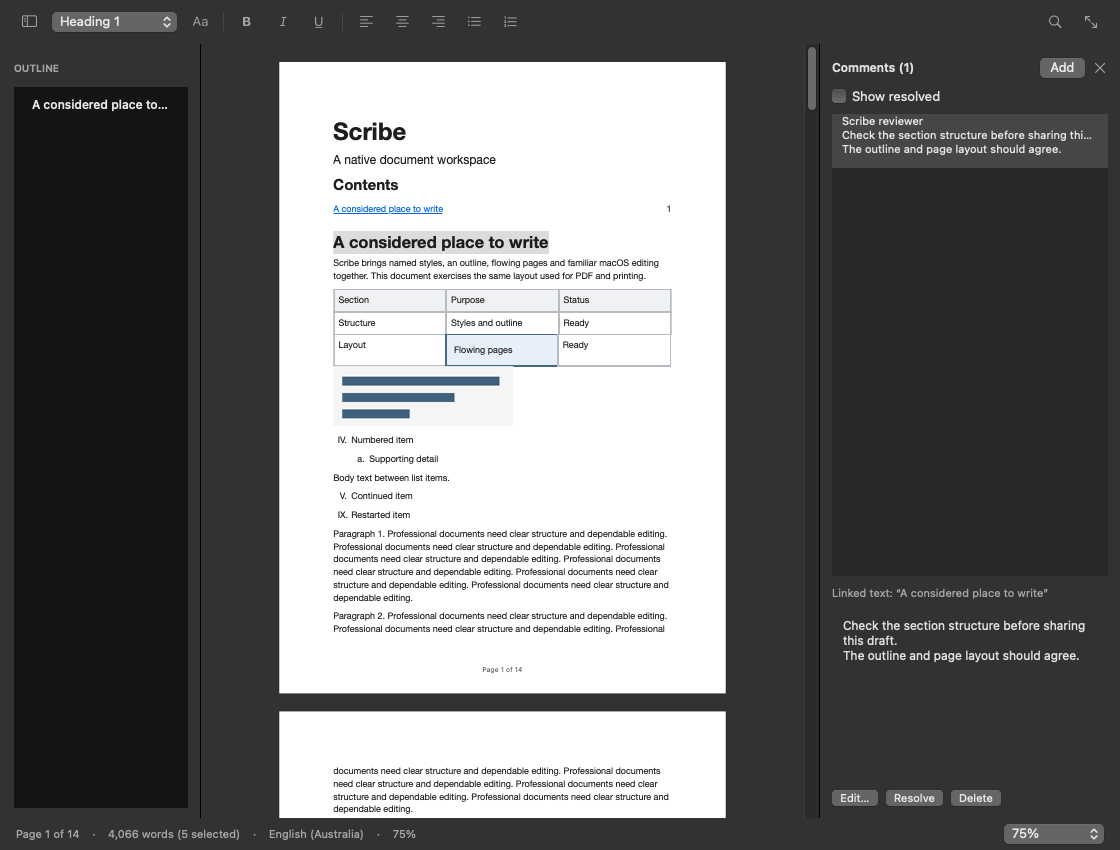
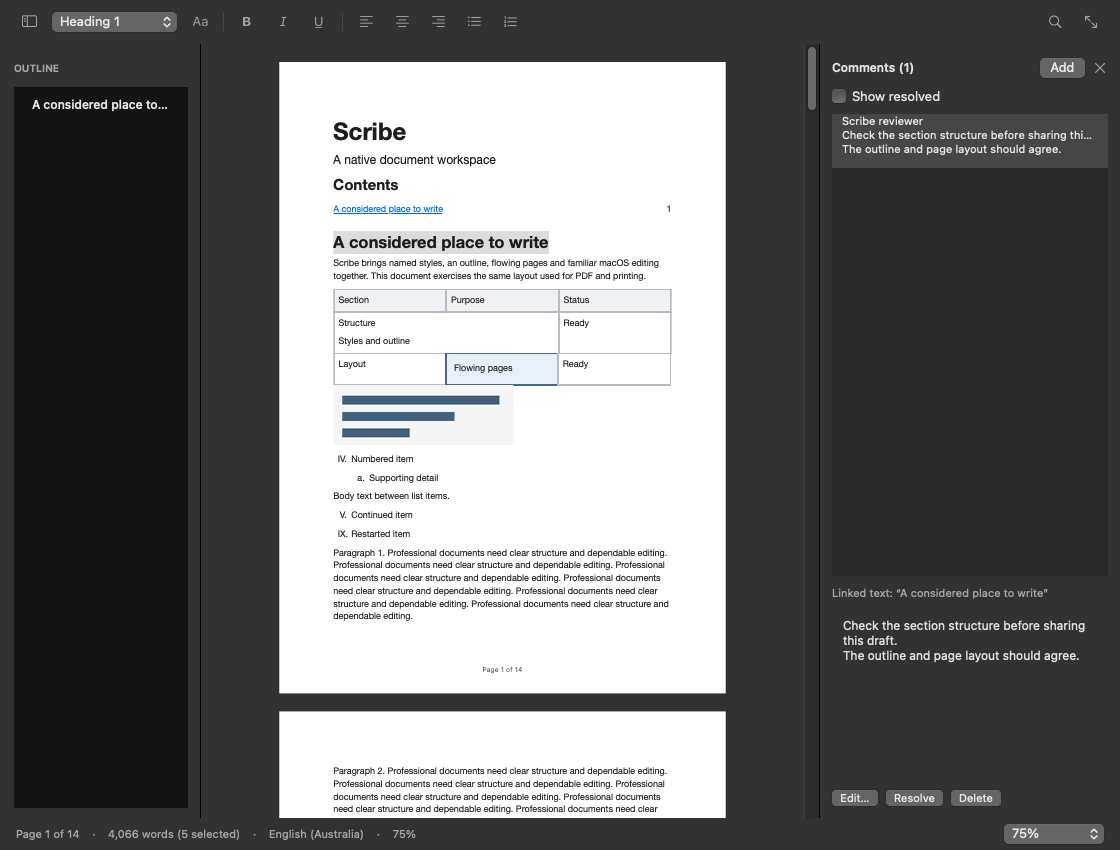
Add document properties and per-document native spelling languages

Changed region(s): [[0.2812, 0.3671, 0.5938, 0.7647], [0.2812, 0.8871, 0.5938, 0.9788]]

diff --git a/Sources/ImportExport/DOCX.swift b/Sources/ImportExport/DOCX.swift
@@ -19,6 +19,18 @@ public enum DOCX {
         let files = try ZipArchive.decode(data)
         guard let content = files["word/document.xml"] else { throw DocumentError.invalid("DOCX has no main document part") }
         let delegate = WordReader(); delegate.files = files
+        delegate.document.language = "und"
+        var metadataPath = "docProps/core.xml"
+        if let rootRelationships = files["_rels/.rels"] {
+            let reader = RelationshipReader(); try parse(rootRelationships, delegate: reader)
+            metadataPath = reader.partTargets[DOCXMetadata.relationship] ?? metadataPath
+        }
+        if let metadata = files[metadataPath] {
+            let reader = DOCXMetadataReader(); try parse(metadata, delegate: reader)
+            if let title = reader.title, !title.isEmpty { delegate.document.title = title }
+            if let author = reader.author { delegate.document.author = author }
+            if let language = reader.language, let normalized = try? DocumentMetadata.languageIdentifier(language) { delegate.document.language = normalized }
+        }
         var partTargets: [String: String] = [:]
         if let rels = files["word/_rels/document.xml.rels"] {
             let reader = RelationshipReader(); try parse(rels, delegate: reader); delegate.links = reader.links; delegate.targets = reader.targets; partTargets = reader.partTargets
@@ -28,6 +40,10 @@ public enum DOCX {
             let reader = StyleReader(); try parse(styles, delegate: reader)
             for style in reader.styles { delegate.document.updateStyle(style) }
             delegate.styleLists = reader.resolvedLists
+            if let language = reader.defaultLanguage, let normalized = try? DocumentMetadata.languageIdentifier(language) { delegate.document.language = normalized }
+            if reader.styleLanguages.contains(where: { (try? DocumentMetadata.languageIdentifier($0)) != delegate.document.language }) {
+                delegate.warnings.insert("Style-specific spelling languages are flattened to the document language.")
+            }
         }
         if let numbering = part("numbering") { try parse(numbering, delegate: delegate.numbering) }
         try parse(content, delegate: delegate)
@@ -194,11 +210,17 @@ private class StyleReader: NSObject, XMLParserDelegate {
         return result
     }
     var styles: [ParagraphStyle] = []; var current: ParagraphStyle?
+    var defaultLanguage: String?
+    var styleLanguages = Set<String>()
+    private var inDefaults = false
     func parser(_ parser: XMLParser, didStartElement name: String, namespaceURI: String?, qualifiedName: String?, attributes a: [String: String]) {
+        if name == "docDefaults" { inDefaults = true }
+        if inDefaults, name == "lang" { defaultLanguage = wordAttribute(a) }
         if name == "style", wordAttribute(a, "type") == "paragraph", let id = wordAttribute(a, "styleId") {
             current = ParagraphStyle(id: id, name: id)
         }
         guard current != nil else { return }
+        if name == "lang", let language = wordAttribute(a) { styleLanguages.insert(language) }
         if name == "basedOn" { parents[current!.id] = wordAttribute(a) }
         if name == "numId" { var list = lists[current!.id] ?? StyleList(); list.id = wordAttribute(a); lists[current!.id] = list }
         if name == "ilvl" { var list = lists[current!.id] ?? StyleList(); list.level = wordAttribute(a).flatMap(Int.init); lists[current!.id] = list }
@@ -208,6 +230,7 @@ private class StyleReader: NSObject, XMLParserDelegate {
         applyParagraph(name, a, &current!.paragraph)
     }
     func parser(_ parser: XMLParser, didEndElement name: String, namespaceURI: String?, qualifiedName: String?) {
+        if name == "docDefaults" { inDefaults = false }
         if name == "style", let style = current { styles.append(style); current = nil }
     }
 }
@@ -244,6 +267,10 @@ private class WordReader: NSObject, XMLParserDelegate {
             if let t = tableIndex, row >= 0, column >= 0 { paragraph?.tableCell = TableCellReference(tableID: document.tables[t].id, row: row, column: column) }
         case "r": run = TextRun("", link: link); inRun = true
         case "t": collecting = true
+        case "lang":
+            if let language = wordAttribute(a), (try? DocumentMetadata.languageIdentifier(language)) != document.language {
+                warnings.insert("Run and paragraph spelling languages are flattened to the document language.")
+            }
         case "instrText": collectingInstruction = true; instruction = ""
         case "fldSimple": inspectFieldInstruction(wordAttribute(a, "instr") ?? "")
         case "fldChar":

diff --git a/Tests/ScribeTests/DocumentPropertiesTests.swift b/Tests/ScribeTests/DocumentPropertiesTests.swift
@@ -1,0 +1,66 @@
+#if canImport(AppKit)
+import AppKit
+import XCTest
+import DocumentCore
+@testable import Scribe
+
+@MainActor final class DocumentPropertiesTests: XCTestCase {
+    override func setUp() { super.setUp(); _ = NSApplication.shared }
+    func testSpellingOptionsArePerDocumentAndAutomaticClearsOldOrthography() throws {
+        let global = NSSpellChecker.shared.language()
+        var french = ScribeDocument(); french.language = "fr"
+        var german = ScribeDocument(); german.language = "de"
+        var types = NSTextCheckingResult.CheckingType.spelling.rawValue | NSTextCheckingResult.CheckingType.orthography.rawValue
+        let first = DocumentSpelling.options(document: french, original: [:], types: &types)
+        XCTAssertEqual((first[.orthography] as? NSOrthography)?.dominantLanguage, "fr")
+        XCTAssertEqual(types & NSTextCheckingResult.CheckingType.orthography.rawValue, 0)
+        XCTAssertNotEqual(types & NSTextCheckingResult.CheckingType.spelling.rawValue, 0)
+        let second = DocumentSpelling.options(document: german, original: first, types: &types)
+        XCTAssertEqual((second[.orthography] as? NSOrthography)?.dominantLanguage, "de")
+        german.language = "und"
+        let automatic = DocumentSpelling.options(document: german, original: second, types: &types)
+        XCTAssertNil(automatic[.orthography])
+        XCTAssertNotEqual(types & NSTextCheckingResult.CheckingType.orthography.rawValue, 0)
+        XCTAssertEqual(NSSpellChecker.shared.language(), global)
+    }
+    func testDocumentPropertiesDialogPersistsLanguageAndSupportsUndo() throws {
+        let document = ScribeFileDocument()
+        document.model.sections[0].paragraphs = [Paragraph("Words for checking.")]
+        document.makeWindowControllers(); defer { document.close() }
+        let controller = document.editorController!
+        document.undoManager?.removeAllActions()
+        DispatchQueue.main.asyncAfter(deadline: .now() + 0.1) {
+            func descendants(_ view: NSView) -> [NSView] { [view] + view.subviews.flatMap(descendants) }
+            guard let content = NSApp.modalWindow?.contentView else { XCTFail("Missing properties dialog"); NSApp.abortModal(); return }
+            let views = descendants(content)
+            (views.first { $0.identifier?.rawValue == "document-title" } as? NSTextField)?.stringValue = "Résumé 東京"
+            (views.first { $0.identifier?.rawValue == "document-author" } as? NSTextField)?.stringValue = "Zoë"
+            let menu = views.compactMap { $0 as? NSPopUpButton }.first
+            menu?.selectItem(at: 0)
+            NativeDialogCapture.save(content, name: "DocumentPropertiesDialog")
+            guard let apply = views.compactMap({ $0 as? NSButton }).first(where: { $0.title == "Apply" }) else { XCTFail("Missing Apply"); NSApp.abortModal(); return }
+            apply.performClick(nil)
+        }
+        controller.documentProperties()
+        let saved = try NativeFormat.decode(document.data(ofType: ScribeFileDocument.typeName))
+        XCTAssertEqual(saved.title, "Résumé 東京"); XCTAssertEqual(saved.author, "Zoë"); XCTAssertEqual(saved.language, "und")
+        XCTAssertTrue(controller.status.stringValue.contains("Automatic language"))
+        document.undoManager?.undo()
+        XCTAssertEqual(document.model.language, "en-AU"); XCTAssertEqual(document.model.author, "")
+        document.undoManager?.redo(); XCTAssertEqual(document.model.title, "Résumé 東京")
+    }
+    func testSpellingDelegateUsesCurrentDocumentAfterUndo() throws {
+        let document = ScribeFileDocument(); document.makeWindowControllers(); defer { document.close() }
+        let controller = document.editorController!, editor = controller.editor
+        document.undoManager?.removeAllActions()
+        try controller.applyDocumentProperties(title: "French", author: "Writer", language: "fr")
+        var types = NSTextCheckingResult.CheckingType.spelling.rawValue
+        var options = editor.textView(editor.activeTextView, willCheckTextIn: NSRange(location: 0, length: 0), options: [:], types: &types)
+        XCTAssertEqual((options[.orthography] as? NSOrthography)?.dominantLanguage, "fr")
+        document.undoManager?.undo()
+        options = editor.textView(editor.activeTextView, willCheckTextIn: NSRange(location: 0, length: 0), options: [:], types: &types)
+        let orthography = try XCTUnwrap(options[.orthography] as? NSOrthography)
+        XCTAssertEqual(try DocumentMetadata.languageIdentifier(orthography.dominantLanguage), "en-AU")
+    }
+}
+#endif

diff --git a/Sources/Scribe/UI/DocumentProperties.swift b/Sources/Scribe/UI/DocumentProperties.swift
@@ -1,0 +1,51 @@
+#if canImport(AppKit)
+import AppKit
+import DocumentCore
+
+@MainActor final class DocumentPropertiesOptions {
+    let title: NSTextField
+    let author: NSTextField
+    let language = NSPopUpButton()
+    let view: NSGridView
+    private(set) var identifiers: [String] = []
+    init(document: ScribeDocument) {
+        title = NSTextField(string: document.title); author = NSTextField(string: document.author)
+        title.identifier = NSUserInterfaceItemIdentifier("document-title"); author.identifier = NSUserInterfaceItemIdentifier("document-author")
+        let installed = Set(NSSpellChecker.shared.availableLanguages.compactMap { try? DocumentMetadata.languageIdentifier($0) })
+        identifiers = ["und"] + installed.sorted { DocumentSpelling.label(for: $0).localizedStandardCompare(DocumentSpelling.label(for: $1)) == .orderedAscending }
+        if !identifiers.contains(document.language) { identifiers.append(document.language) }
+        language.addItems(withTitles: identifiers.map { id in
+            DocumentSpelling.label(for: id) + (id == "und" || installed.contains(id) ? "" : " (dictionary unavailable)")
+        })
+        language.selectItem(at: identifiers.firstIndex(of: document.language) ?? 0)
+        for (index, id) in identifiers.enumerated() { language.item(at: index)?.representedObject = id }
+        title.setAccessibilityLabel("Document title"); author.setAccessibilityLabel("Author"); language.setAccessibilityLabel("Spelling language")
+        view = NSGridView(views: [[NSTextField(labelWithString: "Title"), title], [NSTextField(labelWithString: "Author"), author], [NSTextField(labelWithString: "Spelling language"), language]])
+        view.columnSpacing = 24; view.rowSpacing = 14
+        view.column(at: 0).width = 125; view.column(at: 1).width = 300
+        for row in 0..<3 { view.row(at: row).height = 26 }
+        view.frame = NSRect(x: 0, y: 0, width: 449, height: 110)
+    }
+    var selectedLanguage: String { identifiers[max(0, language.indexOfSelectedItem)] }
+}
+
+extension EditorWindowController {
+    @objc func documentProperties() {
+        let options = DocumentPropertiesOptions(document: fileDocument.snapshot()), alert = NSAlert()
+        alert.messageText = "Document Properties"
+        alert.informativeText = "Title and author are used by DOCX and PDF exports. The spelling language applies to this document. Automatic uses macOS language detection."
+        alert.accessoryView = options.view; alert.addButton(withTitle: "Apply"); alert.addButton(withTitle: "Cancel")
+        while alert.runModal() == .alertFirstButtonReturn {
+            do { try applyDocumentProperties(title: options.title.stringValue, author: options.author.stringValue, language: options.selectedLanguage); return }
+            catch { alert.informativeText = error.localizedDescription }
+        }
+    }
+    func applyDocumentProperties(title: String, author: String, language: String) throws {
+        var updated = fileDocument.snapshot()
+        try updated.setMetadata(title: title, author: author, language: language)
+        fileDocument.performEdit("Document Properties") { $0 = updated }
+        synchronizeWindowTitleWithDocumentName(); updateStatus()
+        editor.activeTextView.checkText(in: NSRange(location: 0, length: editor.storage.length), types: NSTextCheckingResult.CheckingType.spelling.rawValue, options: [:])
+    }
+}
+#endif

diff --git a/Sources/ImportExport/DOCXWriter.swift b/Sources/ImportExport/DOCXWriter.swift
@@ -66,7 +66,9 @@ final class DOCXWriter {
         let styles = document.styles.map { s in
             "<w:style w:type=\"paragraph\" w:styleId=\"\(DOCX.xml(s.id))\"\(s.id == "normal" ? " w:default=\"1\"" : "")><w:name w:val=\"\(DOCX.xml(s.name))\"/><w:pPr>\(DOCX.paragraphProperties(s.paragraph))\(s.headingLevel.map { "<w:outlineLvl w:val=\"\($0 - 1)\"/>" } ?? "")</w:pPr><w:rPr>\(DOCX.runProperties(s.text))</w:rPr></w:style>"
         }.joined()
-        put("word/styles.xml", "<w:styles xmlns:w=\"\(DOCX.wordNS)\">\(styles)</w:styles>")
+        let language = try DocumentMetadata.languageIdentifier(document.language)
+        let defaults = language == "und" ? "" : "<w:docDefaults><w:rPrDefault><w:rPr><w:lang w:val=\"\(DOCX.xml(language))\"/></w:rPr></w:rPrDefault></w:docDefaults>"
+        put("word/styles.xml", "<w:styles xmlns:w=\"\(DOCX.wordNS)\">\(defaults)\(styles)</w:styles>")
         _ = relationship(type: "styles", target: "styles.xml")
         put("word/numbering.xml", numbering.xml)
         _ = relationship(type: "numbering", target: "numbering.xml")
@@ -81,7 +83,9 @@ final class DOCXWriter {
         put("word/settings.xml", "<w:settings xmlns:w=\"\(DOCX.wordNS)\"><w:updateFields w:val=\"true\"/></w:settings>")
         _ = relationship(type: "settings", target: "settings.xml")
         put("word/_rels/document.xml.rels", "<Relationships xmlns=\"http://schemas.openxmlformats.org/package/2006/relationships\">\(relationships.joined())</Relationships>")
-        put("_rels/.rels", "<Relationships xmlns=\"http://schemas.openxmlformats.org/package/2006/relationships\"><Relationship Id=\"document\" Type=\"\(DOCX.relationNS)/officeDocument\" Target=\"word/document.xml\"/></Relationships>")
+        put("docProps/core.xml", try DOCXMetadata.xml(document))
+        overrides.append("<Override PartName=\"/docProps/core.xml\" ContentType=\"\(DOCXMetadata.contentType)\"/>")
+        put("_rels/.rels", "<Relationships xmlns=\"http://schemas.openxmlformats.org/package/2006/relationships\"><Relationship Id=\"document\" Type=\"\(DOCX.relationNS)/officeDocument\" Target=\"word/document.xml\"/><Relationship Id=\"properties\" Type=\"\(DOCXMetadata.relationship)\" Target=\"docProps/core.xml\"/></Relationships>")
         let images = [("png", "image/png"), ("jpg", "image/jpeg"), ("jpeg", "image/jpeg"), ("tiff", "image/tiff"), ("heic", "image/heic")].map { "<Default Extension=\"\($0.0)\" ContentType=\"\($0.1)\"/>" }.joined()
         let standard = [("document", "document.main"), ("styles", "styles"), ("numbering", "numbering"), ("settings", "settings")].map { "<Override PartName=\"/word/\($0.0).xml\" ContentType=\"application/vnd.openxmlformats-officedocument.wordprocessingml.\($0.1)+xml\"/>" }.joined()
         put("[Content_Types].xml", "<Types xmlns=\"http://schemas.openxmlformats.org/package/2006/content-types\"><Default Extension=\"rels\" ContentType=\"application/vnd.openxmlformats-package.relationships+xml\"/><Default Extension=\"xml\" ContentType=\"application/xml\"/>\(images)\(standard)\(overrides.joined())</Types>")

diff --git a/Tests/ImportExportTests/MetadataTests.swift b/Tests/ImportExportTests/MetadataTests.swift
@@ -1,0 +1,41 @@
+import XCTest
+import DocumentCore
+@testable import ImportExport
+
+final class MetadataTests: XCTestCase {
+    func testCorePropertiesAndSpellingDefaultRoundTrip() throws {
+        var document = ScribeDocument()
+        try document.setMetadata(title: "Résumé 東京 & <research>", author: "Zoë \"Writer\"", language: "fr_CA")
+        let bytes = try DOCX.encode(document), parts = try ZipArchive.decode(bytes)
+        let core = String(decoding: parts["docProps/core.xml"]!, as: UTF8.self)
+        let styles = String(decoding: parts["word/styles.xml"]!, as: UTF8.self)
+        XCTAssertTrue(core.contains("&amp; &lt;research&gt;"))
+        XCTAssertTrue(styles.contains("<w:lang w:val=\"fr-CA\"/>"))
+        let imported = try DOCX.decode(bytes)
+        XCTAssertEqual(imported.document.title, document.title)
+        XCTAssertEqual(imported.document.author, document.author)
+        XCTAssertEqual(imported.document.language, "fr-CA")
+        XCTAssertTrue(imported.warnings.isEmpty)
+        if let directory = ProcessInfo.processInfo.environment["SCRIBE_SCHEMA_OUTPUT"] {
+            let folder = URL(fileURLWithPath: directory, isDirectory: true)
+            try FileManager.default.createDirectory(at: folder, withIntermediateDirectories: true)
+            try bytes.write(to: folder.appendingPathComponent("DocumentProperties.docx"))
+        }
+    }
+    func testMetadataRelationshipAndNamespaceAliasesAreRespected() throws {
+        var parts = try ZipArchive.decode(DOCX.encode(ScribeDocument()))
+        parts["docProps/core.xml"] = nil
+        parts["properties/custom.xml"] = Data("<p:coreProperties xmlns:p=\"http://schemas.openxmlformats.org/package/2006/metadata/core-properties\" xmlns:d=\"http://purl.org/dc/elements/1.1/\"><d:title><![CDATA[Independent title & text]]></d:title><d:creator>Author</d:creator><d:language>de</d:language></p:coreProperties>".utf8)
+        parts["_rels/.rels"] = Data(String(decoding: parts["_rels/.rels"]!, as: UTF8.self).replacingOccurrences(of: "docProps/core.xml", with: "properties/custom.xml").utf8)
+        parts["word/styles.xml"] = Data("<w:styles xmlns:w=\"\(DOCX.wordNS)\"/>".utf8)
+        let imported = try DOCX.decode(ZipArchive.encode(parts))
+        XCTAssertEqual(imported.document.title, "Independent title & text")
+        XCTAssertEqual(imported.document.author, "Author"); XCTAssertEqual(imported.document.language, "de")
+    }
+    func testAutomaticLanguageOmitsWordSpellingOverride() throws {
+        var document = ScribeDocument(); document.language = "und"
+        let bytes = try DOCX.encode(document), parts = try ZipArchive.decode(bytes)
+        XCTAssertFalse(String(decoding: parts["word/styles.xml"]!, as: UTF8.self).contains("<w:lang"))
+        XCTAssertEqual(try DOCX.decode(bytes).document.language, "und")
+    }
+}

diff --git a/Sources/DocumentCore/DocumentMetadata.swift b/Sources/DocumentCore/DocumentMetadata.swift
@@ -1,0 +1,29 @@
+import Foundation
+
+public enum DocumentMetadata {
+    /// Canonical casing for common language/script/region identifiers. `und`
+    /// requests automatic detection; this does not claim full registry validation.
+    public static func languageIdentifier(_ value: String) throws -> String {
+        let parts = value.trimmingCharacters(in: .whitespacesAndNewlines).replacingOccurrences(of: "_", with: "-").split(separator: "-", omittingEmptySubsequences: false).map(String.init)
+        guard value.utf8.count <= 63, let first = parts.first, (2...8).contains(first.count), first.utf8.allSatisfy({ (65...90).contains($0) || (97...122).contains($0) }),
+              parts.allSatisfy({ !$0.isEmpty && $0.count <= 8 && $0.utf8.allSatisfy { (48...57).contains($0) || (65...90).contains($0) || (97...122).contains($0) } }) else { throw DocumentError.invalid("use a language identifier such as en-AU, fr or zh-Hant-TW") }
+        return parts.enumerated().map { index, part in
+            if index == 0 { return part.lowercased() }
+            if part.count == 2 { return part.uppercased() }
+            if part.count == 4 { return part.prefix(1).uppercased() + part.dropFirst().lowercased() }
+            return part.lowercased()
+        }.joined(separator: "-")
+    }
+    public static func validateText(_ value: String) throws {
+        guard value.utf8.count <= 16_384, value.unicodeScalars.allSatisfy({ scalar in
+            scalar.value == 9 || scalar.value == 10 || scalar.value == 13 || (scalar.value >= 32 && scalar.value != 0xFFFE && scalar.value != 0xFFFF)
+        }) else { throw DocumentError.invalid("document properties are too long or contain unsupported control characters") }
+    }
+}
+extension ScribeDocument {
+    public mutating func setMetadata(title: String, author: String, language: String) throws {
+        try DocumentMetadata.validateText(title); try DocumentMetadata.validateText(author)
+        let identifier = try DocumentMetadata.languageIdentifier(language)
+        self.title = title; self.author = author; self.language = identifier
+    }
+}

diff --git a/Sources/ImportExport/DOCXMetadata.swift b/Sources/ImportExport/DOCXMetadata.swift
@@ -1,0 +1,30 @@
+import Foundation
+#if canImport(FoundationXML)
+import FoundationXML
+#endif
+import DocumentCore
+
+enum DOCXMetadata {
+    static let relationship = "http://schemas.openxmlformats.org/package/2006/relationships/metadata/core-properties"
+    static let contentType = "application/vnd.openxmlformats-package.core-properties+xml"
+    static func xml(_ document: ScribeDocument) throws -> String {
+        try DocumentMetadata.validateText(document.title); try DocumentMetadata.validateText(document.author)
+        let language = try DocumentMetadata.languageIdentifier(document.language)
+        return "<cp:coreProperties xmlns:cp=\"http://schemas.openxmlformats.org/package/2006/metadata/core-properties\" xmlns:dc=\"http://purl.org/dc/elements/1.1/\"><dc:title>\(DOCX.xml(document.title))</dc:title><dc:creator>\(DOCX.xml(document.author))</dc:creator><dc:language>\(DOCX.xml(language))</dc:language></cp:coreProperties>"
+    }
+}
+
+final class DOCXMetadataReader: NSObject, XMLParserDelegate {
+    var title: String?, author: String?, language: String?
+    private var field: String?, text = ""
+    func parser(_ parser: XMLParser, didStartElement name: String, namespaceURI: String?, qualifiedName: String?, attributes: [String: String]) {
+        if namespaceURI == "http://purl.org/dc/elements/1.1/", ["title", "creator", "language"].contains(name) { field = name; text = "" }
+    }
+    func parser(_ parser: XMLParser, foundCharacters string: String) { if field != nil { text += string } }
+    func parser(_ parser: XMLParser, foundCDATA CDATABlock: Data) { if field != nil { text += String(decoding: CDATABlock, as: UTF8.self) } }
+    func parser(_ parser: XMLParser, didEndElement name: String, namespaceURI: String?, qualifiedName: String?) {
+        guard field == name, namespaceURI == "http://purl.org/dc/elements/1.1/" else { return }
+        switch name { case "title": title = text; case "creator": author = text; case "language": language = text; default: break }
+        field = nil
+    }
+}

diff --git a/Sources/Scribe/UI/EditorWindowController.swift b/Sources/Scribe/UI/EditorWindowController.swift
@@ -41,7 +41,7 @@ import DocumentCore
     override func windowTitle(forDocumentDisplayName displayName: String) -> String {
         guard !isClosing, let document = document as? ScribeFileDocument,
               document.isRecoveredCopy, document.fileURL == nil else { return displayName }
-        return document.model.title
+        return document.model.title.hasSuffix(" — Recovered") ? document.model.title : document.model.title + " — Recovered"
     }
     deinit { NotificationCenter.default.removeObserver(self) }
     @objc private func windowClosing() { prepareForClose() }
@@ -148,7 +148,7 @@ import DocumentCore
         let selection = view.selectedRange()
         let page = editor.textViews.firstIndex(where: { $0 === view }).map { $0 + 1 } ?? 1
         let selectedWords = selection.length > 0 && NSMaxRange(selection) <= editor.storage.length ? DocumentStatistics(text: editor.semanticText.text(inSourceRange: selection)).words : nil
-        status.stringValue = "Page \(page) of \(editor.textViews.count)    ·    \(cachedWords.formatted()) words\(selectedWords.map { " (\($0) selected)" } ?? "")    ·    English (Australia)    ·    \(Int((editor.zoom * 100).rounded()))%"
+        status.stringValue = "Page \(page) of \(editor.textViews.count)    ·    \(cachedWords.formatted()) words\(selectedWords.map { " (\($0) selected)" } ?? "")    ·    \(DocumentSpelling.label(for: fileDocument.model.language))    ·    \(Int((editor.zoom * 100).rounded()))%"
         if let id = view.typingAttributes[.scribeStyle] as? String, let style = fileDocument.model.styles.first(where: { $0.id == id }) { stylePicker.selectItem(withTitle: style.name) }
     }
     func showStatus(_ message: String) { if !isClosing { status.stringValue = message } }

diff --git a/Sources/Scribe/Typography/DocumentSpelling.swift b/Sources/Scribe/Typography/DocumentSpelling.swift
@@ -1,0 +1,32 @@
+#if canImport(AppKit)
+import AppKit
+import DocumentCore
+
+@MainActor enum DocumentSpelling {
+    static func label(for identifier: String) -> String {
+        if identifier == "und" { return "Automatic language" }
+        return Locale.current.localizedString(forIdentifier: identifier) ?? identifier
+    }
+    static func options(document: ScribeDocument, original: [NSSpellChecker.OptionKey: Any], types: UnsafeMutablePointer<NSTextCheckingTypes>) -> [NSSpellChecker.OptionKey: Any] {
+        var options = original
+        options[.documentTitle] = document.title; options[.documentAuthor] = document.author
+        if document.language != "und" {
+            // Disable automatic orthography detection for this request only.
+            // Other open documents and the system spell-checker preference are untouched.
+            types.pointee &= ~NSTextCheckingResult.CheckingType.orthography.rawValue
+            options[.orthography] = NSOrthography.defaultOrthography(forLanguage: document.language)
+        } else {
+            types.pointee |= NSTextCheckingResult.CheckingType.orthography.rawValue
+            options.removeValue(forKey: .orthography)
+        }
+        return options
+    }
+}
+
+extension PaginatedEditor {
+    func textView(_ view: NSTextView, willCheckTextIn range: NSRange, options: [NSSpellChecker.OptionKey: Any], types checkingTypes: UnsafeMutablePointer<NSTextCheckingTypes>) -> [NSSpellChecker.OptionKey: Any] {
+        guard let owner else { return options }
+        return DocumentSpelling.options(document: owner.model, original: options, types: checkingTypes)
+    }
+}
+#endif

diff --git a/Tests/DocumentCoreTests/MetadataTests.swift b/Tests/DocumentCoreTests/MetadataTests.swift
@@ -1,0 +1,18 @@
+import XCTest
+@testable import DocumentCore
+
+final class MetadataTests: XCTestCase {
+    func testMetadataIsTransactionalAndPreservesUnicode() throws {
+        var document = ScribeDocument()
+        try document.setMetadata(title: "Résumé 東京 & research", author: "Zoë", language: "zh_hant_tw")
+        XCTAssertEqual(document.language, "zh-Hant-TW")
+        XCTAssertEqual(try NativeFormat.decode(NativeFormat.encode(document)), document)
+        let before = document
+        XCTAssertThrowsError(try document.setMetadata(title: "Changed", author: "Other", language: "en--AU"))
+        XCTAssertEqual(document, before)
+        XCTAssertThrowsError(try document.setMetadata(title: "Invalid\u{0}", author: "", language: "fr"))
+        XCTAssertEqual(document, before)
+        try document.setMetadata(title: before.title, author: before.author, language: "und")
+        XCTAssertEqual(document.language, "und")
+    }
+}

diff --git a/Sources/Scribe/App/LaunchSmokeTest.swift b/Sources/Scribe/App/LaunchSmokeTest.swift
@@ -8,6 +8,7 @@ extension AppDelegate {
     func smokeTest() async {
         do {
             let document = ScribeFileDocument()
+            try document.model.setMetadata(title: "Scribe Smoke Test", author: "Scribe", language: "en-GB")
             document.model.sections[0].paragraphs = [Paragraph("Scribe", style: "title"), Paragraph("A native document workspace", style: "subtitle"), Paragraph("A considered place to write", style: "heading1"), Paragraph("Scribe brings named styles, an outline, flowing pages and familiar macOS editing together. This document exercises the same layout used for PDF and printing.")]
             document.model.insertTable(rows: 3, columns: 3, after: document.model.paragraphs.last!.id)
             let cellValues = ["Section", "Purpose", "Status", "Structure", "Styles and outline", "Ready", "Layout", "Flowing pages", "Ready"]

diff --git a/Sources/Scribe/App/ScribeFileDocument.swift b/Sources/Scribe/App/ScribeFileDocument.swift
@@ -167,7 +167,7 @@ import ImportExport
                 document.model = url.pathExtension.lowercased() == "md" ? TextFormats.markdown(string) : TextFormats.plainText(string)
             }
             noteNewRecentDocumentURL(url)
-            document.model.title = url.deletingPathExtension().lastPathComponent
+            if document.model.title.isEmpty || document.model.title == "Untitled" { document.model.title = url.deletingPathExtension().lastPathComponent }
             addDocument(document); document.makeWindowControllers(); document.showWindows(); document.updateChangeCount(.changeDone)
             if !document.importWarnings.isEmpty {
                 let alert = NSAlert(); alert.messageText = "Imported with limitations"
